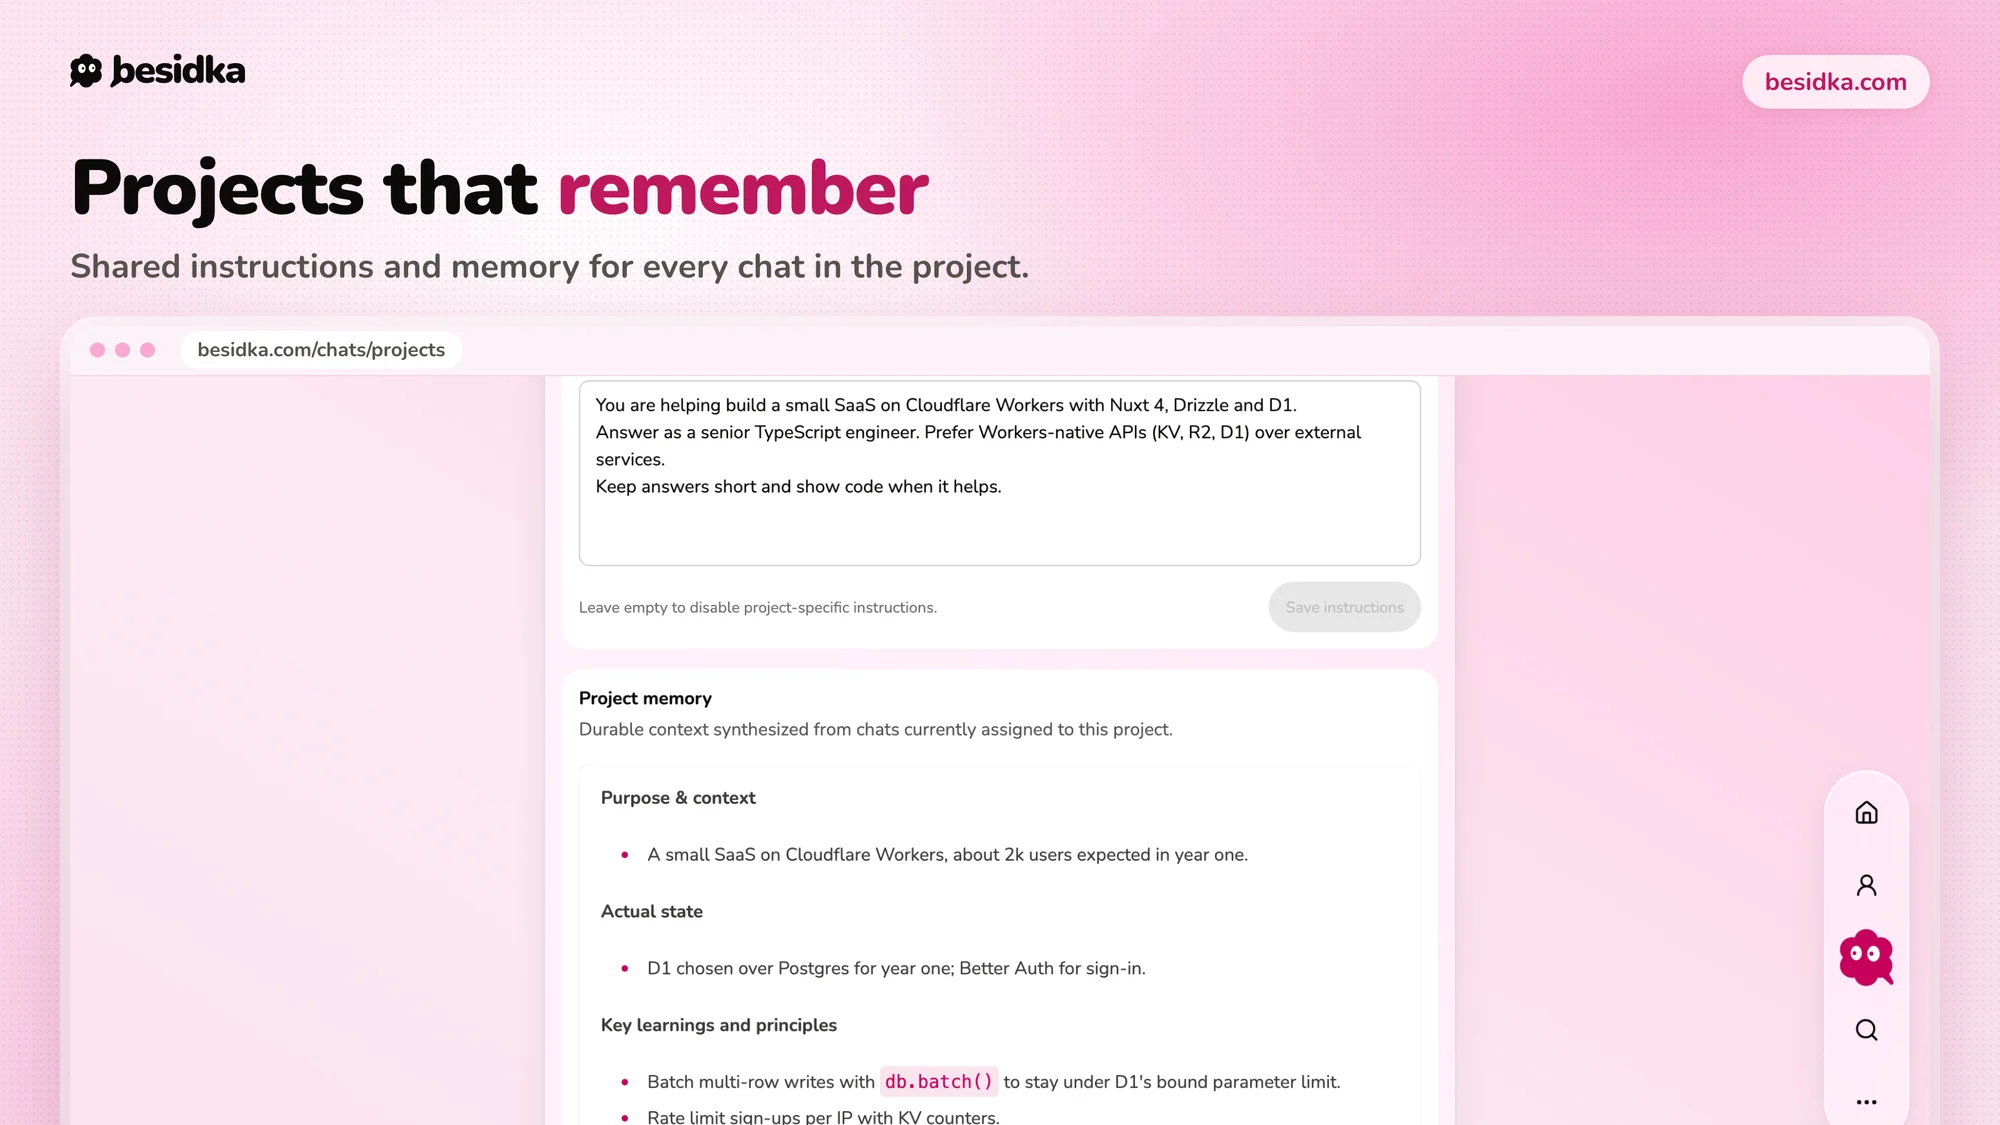
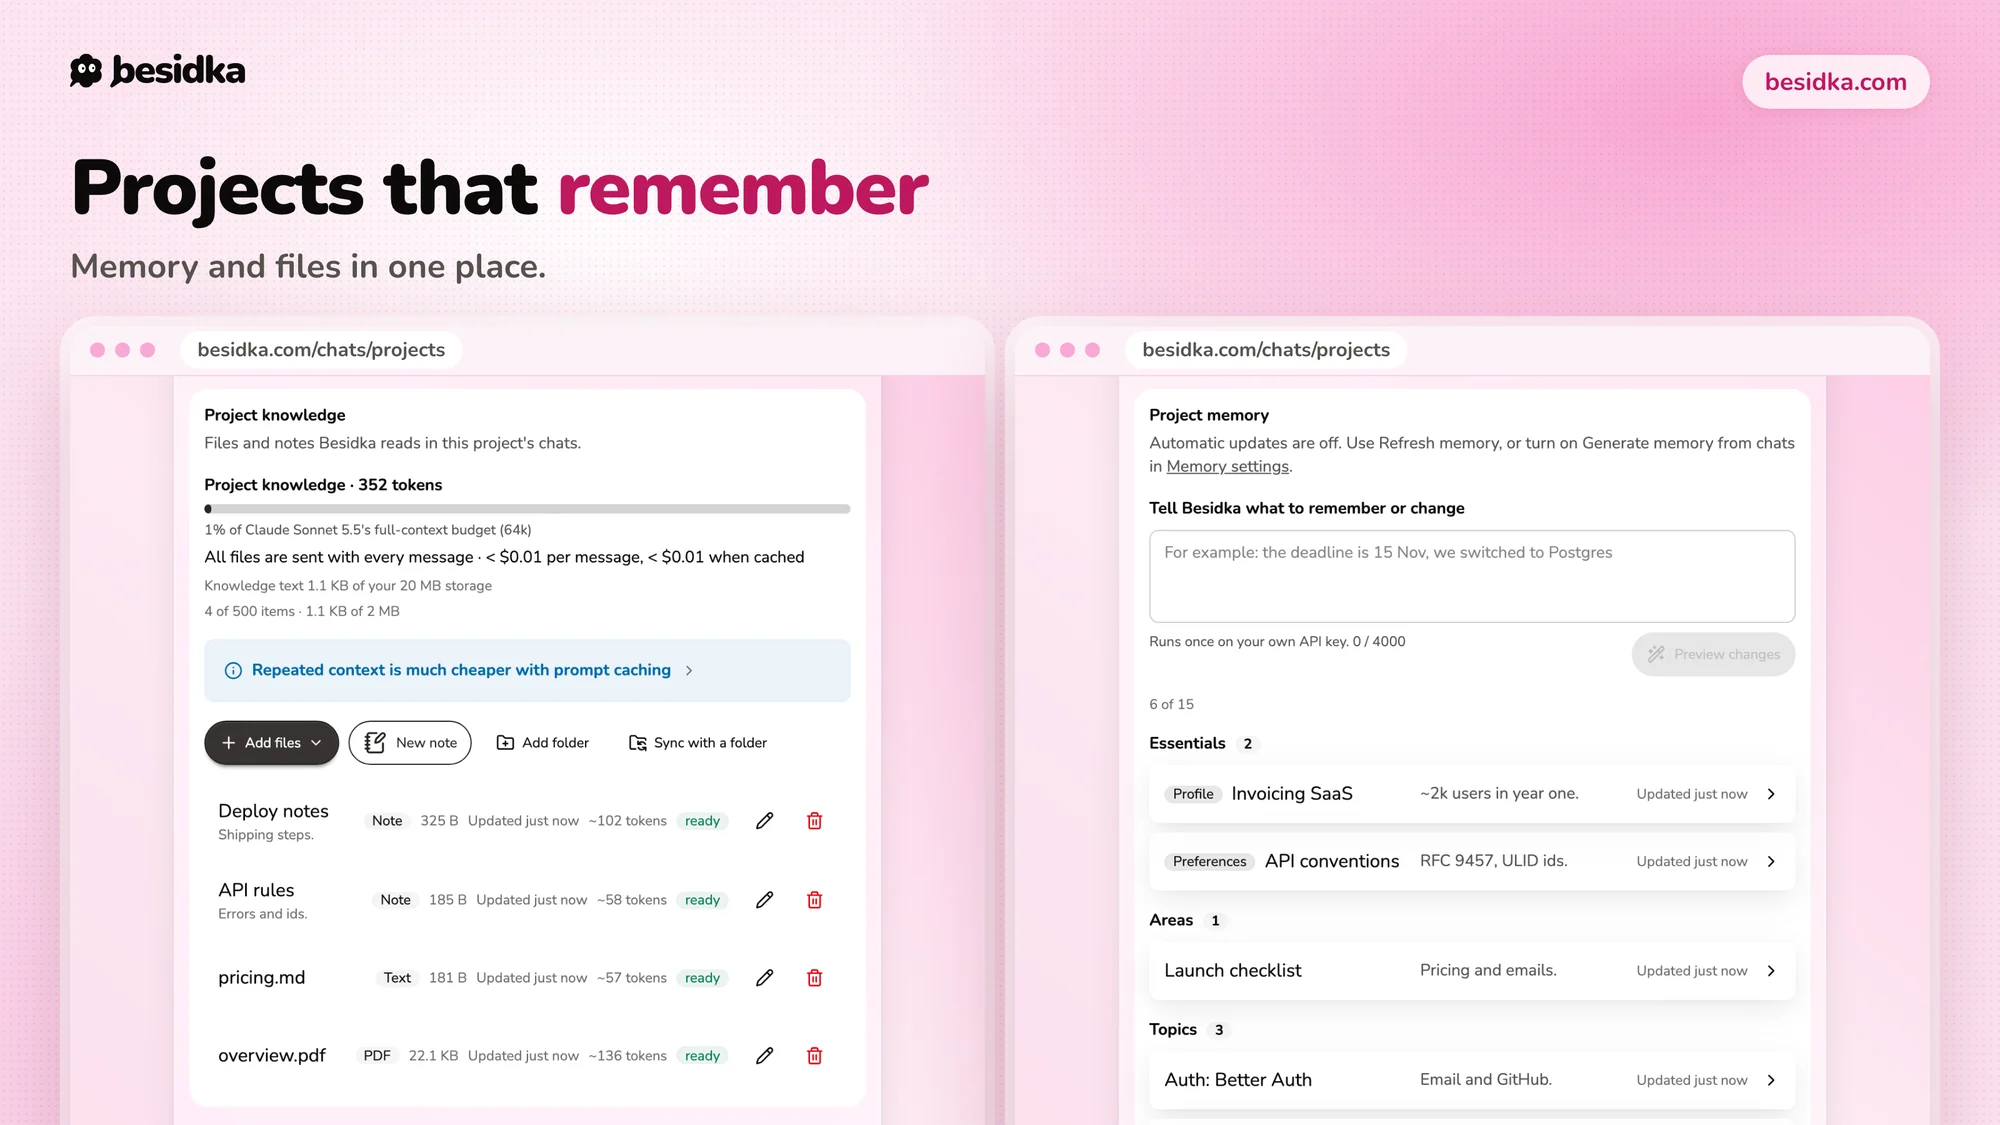
feat(landing): memory and chat search slides
Replace the stale projects carousel slide with a capture of the current project knowledge and project memory UI. Add slides for profile memory and for chat search. Update the README preview table and the Projects feature copy to match.

Changed region(s): [[0.093, 0.28, 0.961, 1.0], [0.031, 0.2178, 0.527, 0.2489]]

diff --git a/content/index.md b/content/index.md
@@ -33,8 +33,14 @@ carousel:
     alt: The web search menu with Exa selected and its three search levels, Lite $4/1k, Auto $7/1k and Deep $12/1k with Deep active, next to the message info cards for a Lite answer (~$0.004) and a Deep answer (~$0.012).
     caption: Pick Lite, Auto or Deep for Exa web search, and see what each answer cost
   - src: /carousel/projects.webp
-    alt: A project page with project instructions marked Active and project memory synthesized from the project's chats.
-    caption: Projects with shared instructions and memory
+    alt: A project page with a Project knowledge panel listing two notes, a text file and a PDF under a capacity meter, next to the Project memory card with entries grouped as Essentials, Areas and Topics.
+    caption: Projects with memory, files and notes
+  - src: /carousel/memory.webp
+    alt: The Memory page with Use memory on, Generate memory from chats off and Search and reference chats on, next to What Besidka remembers with a Tell Besidka what to remember or change box and entries grouped as You and Topics.
+    caption: Profile memory you can read, edit and delete
+  - src: /carousel/chat-search.webp
+    alt: A chat answer with a Searched your chats step listing two earlier chats with their dates, and the answer built from what they said.
+    caption: Search your past chats, with links to the sources
   - src: /carousel/code-and-diagrams.webp
     alt: A light-theme chat answer with a syntax-highlighted TypeScript snippet and a rendered sequence diagram of a Worker reading from KV and falling back to D1.
     caption: Highlighted code and rendered diagrams
@@ -266,7 +272,7 @@ features:
     body: Share a chat with a public, unguessable link. Anyone can view it without an account and branch it into their own chats. You control expiry, indexing, and what's visible.
   - icon: lucide:folder-kanban
     title: Projects
-    body: Group related chats under a project with shared instructions and memory so every conversation has context.
+    body: Group related chats under a project with shared instructions, files, notes and memory so every conversation has context.
   - icon: lucide:telescope
     title: Deep research
     body: Kick off an autonomous agent that browses the web, cross-checks sources, and writes a cited report while you do something else. Runs on your own key for roughly $1 to $10 per task, with a push notification when it's done.

diff --git a/README.md b/README.md
@@ -221,7 +221,7 @@ snyk code test
         <img src="public/carousel/any-model.webp" width="100%" alt="Besidka on desktop and on a phone, labelled desktop and mobile, installable PWA and push notifications, with a push notification saying the response is ready." />
       </td>
       <td>
-        <img src="public/carousel/projects.webp" width="100%" alt="A project page with project instructions marked Active and project memory synthesized from the project's chats." />
+        <img src="public/carousel/projects.webp" width="100%" alt="A project page with a Project knowledge panel listing two notes, a text file and a PDF under a capacity meter, next to the Project memory card with entries grouped as Essentials, Areas and Topics." />
       </td>
     </tr>
     <tr>
@@ -230,6 +230,14 @@ snyk code test
       </td>
       <td>
         <img src="public/carousel/web-search-prices.webp" width="100%" alt="Search provider settings with prices per 1,000 searches for Brave, Exa and the built-in search of Gemini, Anthropic, OpenAI and DeepSeek." />
+      </td>
+    </tr>
+    <tr>
+      <td>
+        <img src="public/carousel/memory.webp" width="100%" alt="The Memory page with Use memory on, Generate memory from chats off and Search and reference chats on, next to What Besidka remembers with a Tell Besidka what to remember or change box and entries grouped as You and Topics." />
+      </td>
+      <td>
+        <img src="public/carousel/chat-search.webp" width="100%" alt="A chat answer with a Searched your chats step listing two earlier chats with their dates, and the answer built from what they said." />
       </td>
     </tr>
     <tr>
